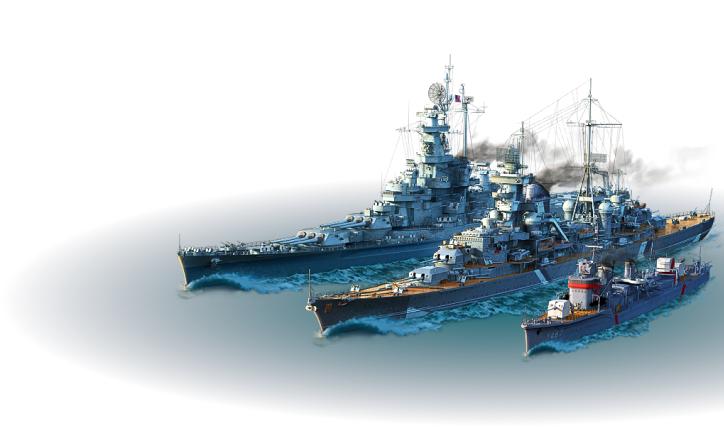
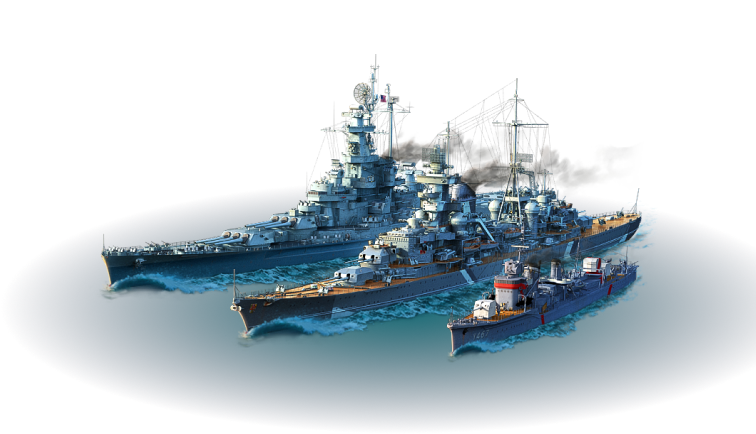
Fixed image on landing page Added user-select none where nedded Moved computer room to top

diff --git a/client/src/components/Organisms/UserNameForm/UserNameForm.tsx b/client/src/components/Organisms/UserNameForm/UserNameForm.tsx
@@ -32,6 +32,7 @@ const Form = styled.form`
     backdrop-filter: blur(3px);
     -webkit-backdrop-filter: blur(12.5px);
     border-radius: 20px;
+    user-select: none;
   }
   @media screen and (min-width: 3000px) {
     width: 700px;
@@ -69,49 +70,3 @@ const UserNameForm = () => {
   );
 };
 export default UserNameForm;
-/*const Form = styled.form`
-  width: 500px;
-  height: 260px;
-  border: 3px solid ${(props: StyledProps) => props.theme.colors.myBlue};
-  border-radius: 20px;
-  padding: 25px 0;
-  display: flex;
-  flex-direction: column;
-  justify-content: space-between;
-  align-items: center;
-  justify-self: center;
-  position: relative;
-  z-index: 1;
-  ::after {
-    width: 100%;
-    height: 100%;
-    position: absolute;
-    left: 0;
-    top: 0;
-    content: '';
-    z-index: -1;
-    background: ${(props: StyledProps) => props.theme.colors.transparentDarkBlue};
-    box-shadow: 0 8px 32px 0 rgba(31, 38, 135, 0.37);
-    backdrop-filter: blur(3px);
-    -webkit-backdrop-filter: blur(12.5px);
-    border-radius: 20px;
-  }
-`;
-
-const UserNameForm = () => {
-  const { register, handleSubmit } = useForm();
-  const { handleSetUserName } = useContext(UserContext);
-  return (
-    <Form
-      onSubmit={handleSubmit((data) => {
-        handleSetUserName(data['userName']);
-      })}
-    >
-      <FormField type="text" name={'userName'} label={'What is your name?'} id={'userName'} register={register} />
-      <StandardButton isActive={true} type="submit">
-        Submit
-      </StandardButton>
-    </Form>
-  );
-};
-export default UserNameForm; */

diff --git a/client/src/providers/gameProvider.tsx b/client/src/providers/gameProvider.tsx
@@ -65,8 +65,6 @@ const GameProvider = (props: React.PropsWithChildren<React.ReactNode>) => {
   const handlePreparationCancel = useCallback(
     (roomName: string) => {
       setIsPreparationCanceled(true);
-      //setGameStarted(false);
-      //createShipsLists(shipsList);
       resetGame();
       socket?.emit('leaveTheRoom', roomName);
     },
@@ -115,13 +113,14 @@ const GameProvider = (props: React.PropsWithChildren<React.ReactNode>) => {
       if (shotResult.sunkShip > 0) {
         handleSunkShip(shotResult.userId, shotResult.sunkShip);
       }
-
-      checkIfItIsMyTurn(currentPlayer as string);
+      if (!winner) {
+        checkIfItIsMyTurn(currentPlayer as string);
+      }
     });
     return () => {
       socket?.off('shotResult');
     };
-  }, [myShots, opponentShots, socket, checkIfItIsMyTurn, handleSunkShip]);
+  }, [myShots, opponentShots, socket, checkIfItIsMyTurn, handleSunkShip, winner]);
 
   useEffect(() => {
     socket?.on('Winner', (winner) => {
@@ -145,12 +144,6 @@ const GameProvider = (props: React.PropsWithChildren<React.ReactNode>) => {
 
   useEffect(() => {
     socket?.on('GameEnded', () => {
-      /*setGameStarted(false);
-      setShots([]);
-      setOpponentShots([]);
-      setIsMyTurn(false);
-      setWinner('');
-      createShipsLists(shipsList);*/
       resetGame();
     });
     return () => {

diff --git a/server/server.ts b/server/server.ts
@@ -31,13 +31,12 @@ const rooms: Room[] = [];
 server.listen(PORT, () => {
   console.log(`⚡[server]: Server is running at https://localhost:${PORT}`);
   console.log('Nr of rooms: ', process.env.NUMBER_OF_ROOMS);
+  rooms.push(new SpecialRoom('Room_#AI1', new Computer('RT2D2', 'AIP#0')));
+  rooms.push(new SpecialRoom('Room_#AI2', new Computer('C3PO', 'AIP#1')));
 
   for (let i = 1; i <= NUMBER_OF_ROOMS; i++) {
     rooms.push(new Room(`Room_#${i}`));
   }
-
-  rooms.push(new SpecialRoom('Room_#AI1', new Computer('RT2D2', 'AIP#0')));
-  rooms.push(new SpecialRoom('Room_#AI2', new Computer('C3PO', 'AIP#1')));
 });
 
 //? User Connection //

diff --git a/client/src/components/Atoms/Buttons/Buttons.ts b/client/src/components/Atoms/Buttons/Buttons.ts
@@ -28,6 +28,7 @@ export const StandardButton = styled.button`
     cursor: ${(props: Props) => (props.isActive ? 'pointer' : ' not-allowed')};
     background-color: ${(props: StyledProps) => props.theme.colors.transparentOrange};
   }
+  user-select: none;
   @media screen and (min-width: 3000px) {
     font-size: ${(props: StyledProps) => props.theme.fontSizes.M};
     width: 200px;
@@ -98,7 +99,7 @@ export const CancelLink = styled(Link)`
   font-weight: bold;
   background-color: transparent;
   transition: background-color 0.5s;
-
+  user-select: none;
   display: flex;
   text-decoration: none;
   text-align: center;

diff --git a/client/src/providers/socketProvider.tsx b/client/src/providers/socketProvider.tsx
@@ -8,10 +8,10 @@ export const SocketContext = createContext({
 const SocketProvider = (props: React.PropsWithChildren<React.ReactNode>) => {
   const { children } = props;
 
-  //const URL = 'http://192.168.10.101:8090';
+  const URL = 'http://192.168.10.101:8090';
   //const URL = 'http://192.168.1.129:8090';
 
-  const URL = 'https://kdz-battleships-server.herokuapp.com/' || 'https//localhost:8090';
+  //const URL = 'https://kdz-battleships-server.herokuapp.com/' || 'https//localhost:8090';
 
   const [socket, setSocket] = useState<Socket | undefined>(undefined);
   useEffect(() => {

diff --git a/client/src/components/Atoms/HeroText/HeroText.tsx b/client/src/components/Atoms/HeroText/HeroText.tsx
@@ -8,6 +8,7 @@ const Wrapper = styled.div`
   flex-direction: column;
   align-items: center;
   justify-content: space-evenly;
+  user-select: none;
 `;
 
 const Header = styled.h1`
@@ -54,8 +55,8 @@ const SubHeader = styled.h2`
 
 const HeroText = () => (
   <Wrapper>
-    <Header>Free, browser, multiplayer battleships game.</Header>
-    <SubHeader>Captain, join and check yourself in epic naval battle.</SubHeader>
+    <Header>Free browser multiplayer battleships game</Header>
+    <SubHeader>Captain join and check yourself in epic naval battle</SubHeader>
   </Wrapper>
 );
 

diff --git a/client/src/components/Organisms/Room/Room.tsx b/client/src/components/Organisms/Room/Room.tsx
@@ -3,6 +3,7 @@ import { User } from '../../../Types/types';
 import { RoomName, UserSlotsWrapper, Wrapper } from './Room.styles';
 import { StandardButton } from '../../Atoms/Buttons/Buttons';
 import EmptyRoomInfo from '../../Atoms/EmptyRoomInfo/EmptyRoomInfo';
+import { useEffect } from 'react';
 
 type Props = {
   roomName: string;
@@ -12,6 +13,9 @@ type Props = {
 };
 const Room = (props: Props) => {
   const { roomName, users, isLocked, handleJoinToTheRoom } = props;
+  useEffect(() => {
+    window.scrollTo(0, 0);
+  }, []);
 
   return (
     <Wrapper>

diff --git a/client/src/components/Atoms/SamplePictures/SamplePictures.tsx b/client/src/components/Atoms/SamplePictures/SamplePictures.tsx
@@ -3,16 +3,13 @@ import sampleImage from '../../../assets/Images/sample-image.png';
 
 const SampleImage = styled.img`
   margin-top: 50px;
-  width: 90%;
-  height: 90%;
+  width: 60%;
 
   @media screen and (max-width: 860px) {
-    width: 70%;
-    height: 70%;
+    width: 60%;
   }
   @media screen and (max-width: 600px) {
     width: 90%;
-    height: 90%;
     margin-top: 10px;
   }
 `;

diff --git a/client/src/components/Atoms/ReadyImage/ReadyImage.tsx b/client/src/components/Atoms/ReadyImage/ReadyImage.tsx
@@ -12,7 +12,7 @@ const StyledImage = styled.img`
   grid-row: 1/3;
   justify-self: center;
   user-select: none;
-  width: 80%;
+  width: 60%;
 
   @keyframes showImage {
     to {
@@ -33,7 +33,7 @@ const StyledImage = styled.img`
   }
 
   @media screen and (${(props: StyledProps) => props.theme.devices.small}) {
-    width: 140%;
+    width: 90%;
   }
 `;
 

diff --git a/client/src/Views/PreparingPage/PreparingPage.tsx b/client/src/Views/PreparingPage/PreparingPage.tsx
@@ -27,6 +27,10 @@ const PreparingPage = () => {
   const [sortedUsers, setSortedUsers] = useState<SortedUsers>({ me: undefined, opponent: undefined });
 
   useEffect(() => {
+    window.scrollTo(0, 0);
+  }, []);
+
+  useEffect(() => {
     socket?.emit('usersJoinTheRoom', roomName);
     socket?.on('usersStatusInRoom', (users) => {
       setUsers(users);

diff --git a/client/src/Views/Game/Game.tsx b/client/src/Views/Game/Game.tsx
@@ -19,6 +19,10 @@ const Game = () => {
   const { socket } = useContext(SocketContext);
 
   useEffect(() => {
+    window.scrollTo(0, 0);
+  }, []);
+
+  useEffect(() => {
     if (winner) {
       handleOpenModal();
     }

diff --git a/client/src/components/Atoms/UserInfo/UserInfo.tsx b/client/src/components/Atoms/UserInfo/UserInfo.tsx
@@ -30,6 +30,7 @@ const Wrapper = styled.div`
 const StyledImage = styled.img`
   margin-right: 20px;
   align-self: center;
+  user-select: none;
   @media screen and (min-width: 3000px) {
     width: 25%;
     height: 25%;
